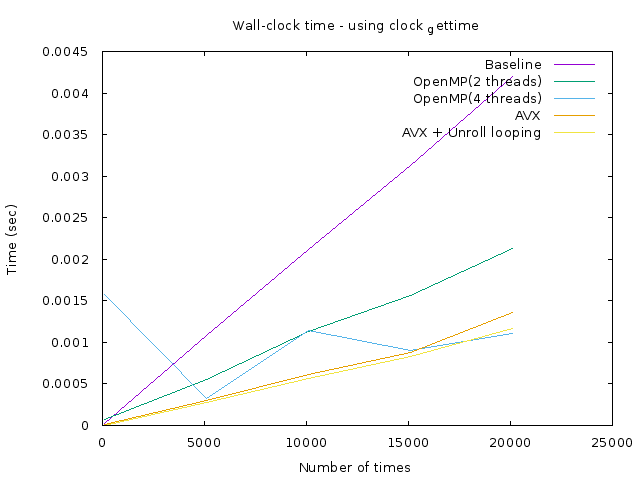
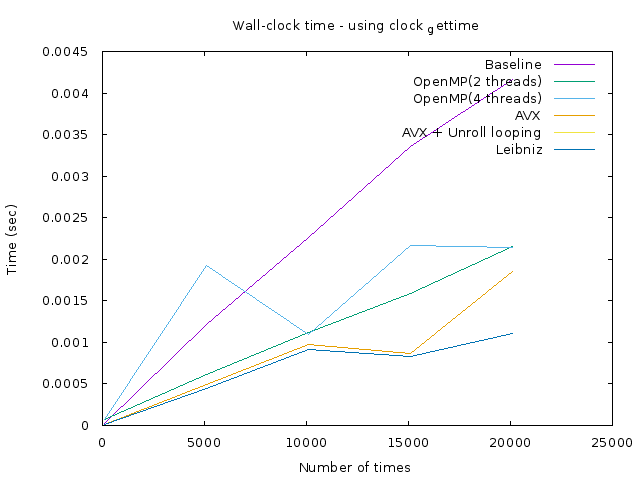
execute leibniz's formula

diff --git a/benchmark_clock_gettime.c b/benchmark_clock_gettime.c
@@ -58,8 +58,12 @@ int main(int argc, char const *argv[])
         compute_pi_avx_unroll(N);
     }
     clock_gettime(CLOCK_ID, &end);
-    printf("%lf\n", (double) (end.tv_sec - start.tv_sec) +
+    printf("%lf,", (double) (end.tv_sec - start.tv_sec) +
            (end.tv_nsec - start.tv_nsec)/ONE_SEC);
+
+    clock_gettime(CLOCK_ID, &end);
+    printf("%lf\n", (double) (end.tv_sec - start.tv_sec) +
+           (end.tv_nsec - start.tv_nsec) / ONE_SEC);
 
     return 0;
 }

diff --git a/computepi.c b/computepi.c
@@ -117,3 +117,16 @@ double compute_pi_avx_unroll(size_t N)
           tmp4[0] + tmp4[1] + tmp4[2] + tmp4[3];
     return pi * 4.0;
 }
+
+double compute_pi_leibniz(size_t N)
+{
+    double pi = 0.0;
+    double term = 0.0;
+    double sign = 1.0;
+    for (size_t i = 0; i < N; i++) {
+        term = (double) sign / ( 2.0 * i + 1.0 );
+        sign = -sign;
+        pi += term;
+    }
+    return pi * 4.0;
+}
